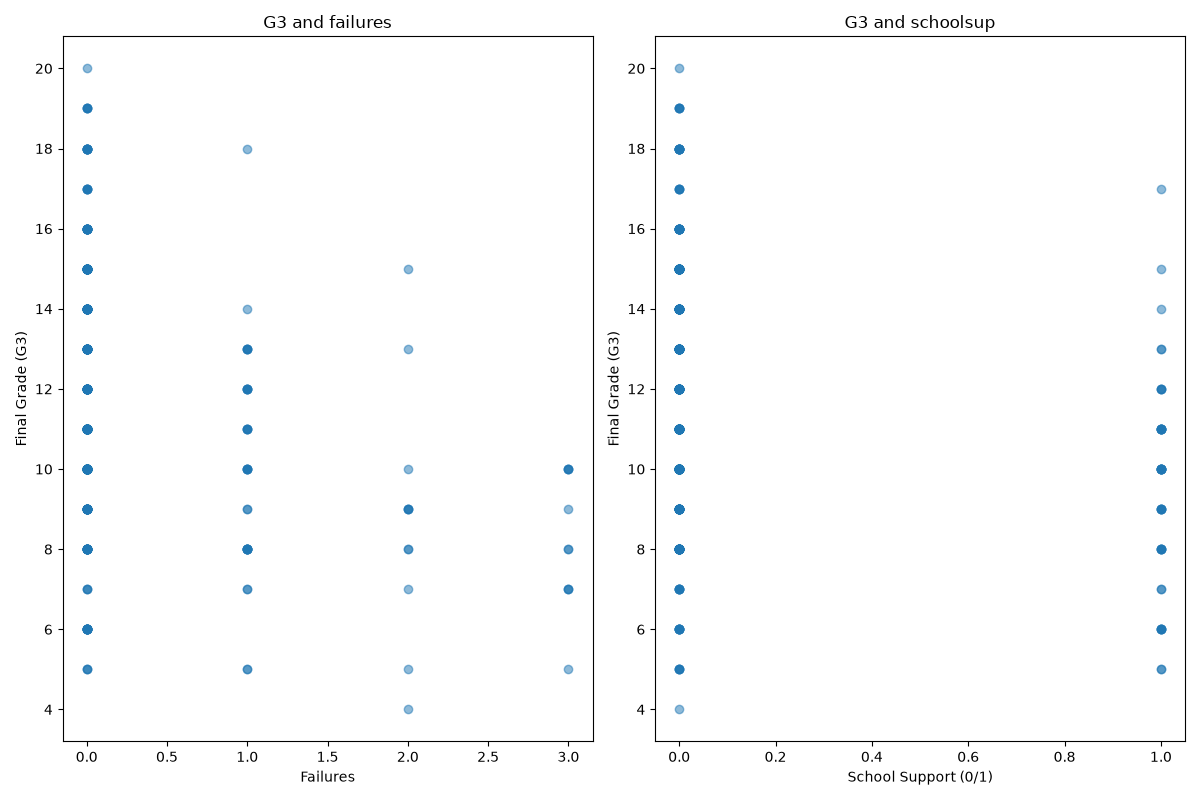
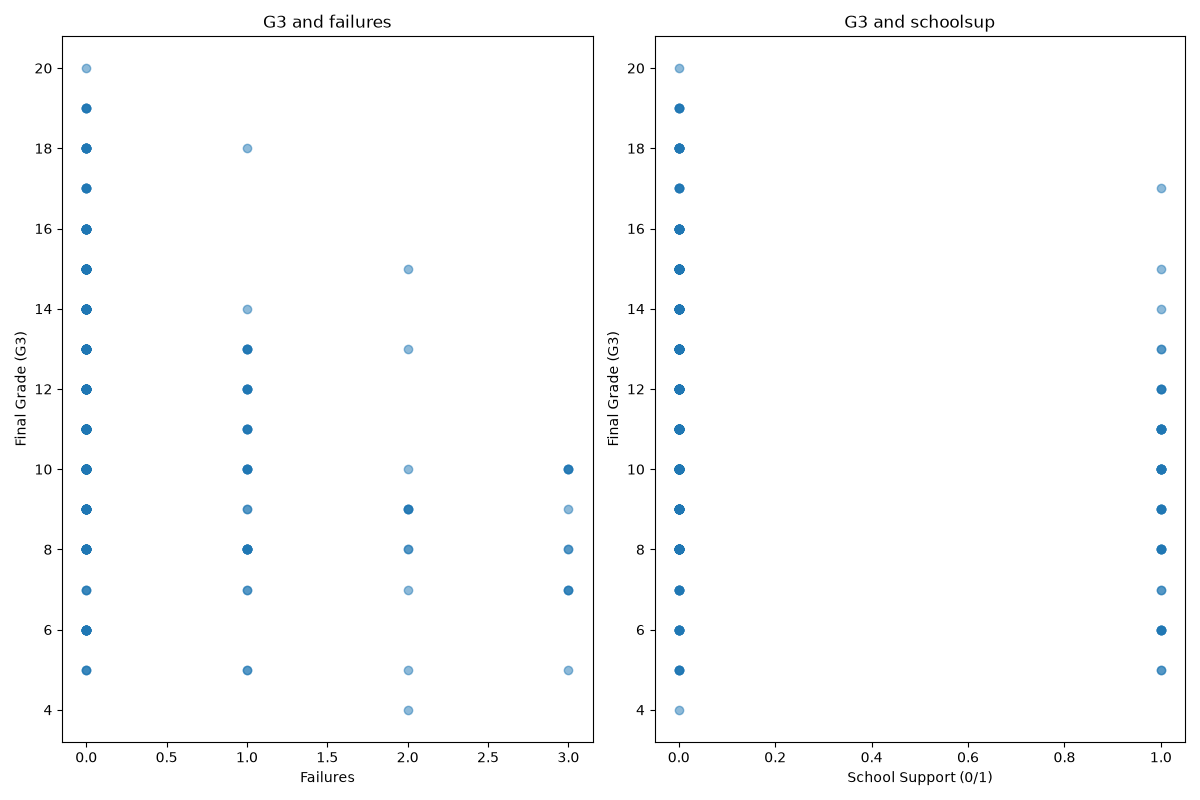
test

diff --git a/index.py b/index.py
@@ -32,7 +32,7 @@ for count, bin_start in zip(counts, bins[:-1]):
     plt.text(
         x=bin_start + 0.5,
         y=count + 0.2,
-        s=int(count),
+        s=str(int(count)),
         ha='center',
         va='bottom',
         fontsize=9